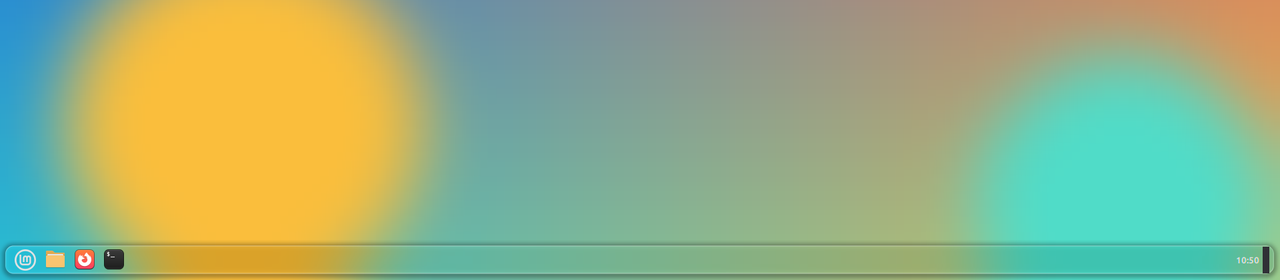
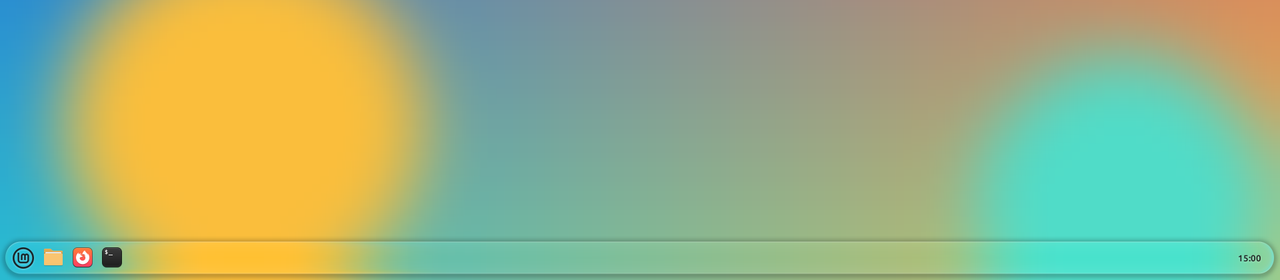
Fix colour lines on the glass rim, and refresh the Spices screenshot
The edge refraction samples the backdrop from further away than the bar
is tall once the lens width exceeds half its thickness (the new default
of 40 px does). Samples were clamped to the whole panel texture, so the
red, green and blue channels, which are offset differently, landed on
different clamped positions and drew bright red and green lines along
the rim over colourful content. Samples are now clamped to the bar.
A new integration check compares the rim pixels with the wallpaper.

Measuring the brightness behind an auto-hiding panel before it slides in
read the panel's own pixels when it was still sliding away, which pulled
the average under the threshold and delayed the colour switch until the
slide finished. Points the panel currently covers are now skipped.

vitrin/screenshot.png is regenerated from the current version, with the
same wallpaper and crop as before.

Changed region(s): [[0.0, 0.8286, 1.0, 1.0]]

diff --git a/vitrin/files/vitrin/extension.js b/vitrin/files/vitrin/extension.js
@@ -273,10 +273,12 @@ function measure(panel, s, [dx, dy] = [0, 0], fade = true) {
     const scale = global.ui_scale;
     const bands = Lib.sampleBands(panel.is_vertical, { x, y, width: panel.actor.width, height: panel.actor.height },
         config.gap, config.innerPadding, scale);
+    const here = { x: ax, y: ay, width: panel.actor.width, height: panel.actor.height };
     const jobs = regions(panel).filter(box => box.width > 0 && box.height > 0).map(box => {
         const [bx, by] = box.get_transformed_position();
         const region = { x: bx + dx, y: by + dy, width: box.width, height: box.height };
-        return { box, points: Lib.samplePoints(panel.is_vertical, region, bands, SAMPLES_PER_REGION), lum: [] };
+        const points = Lib.samplePoints(panel.is_vertical, region, bands, SAMPLES_PER_REGION);
+        return { box, points: dx || dy ? Lib.outside(points, here) : points, lum: [] };
     });
     let left = jobs.reduce((n, job) => n + job.points.length, 0);
     if (!left)

diff --git a/vitrin/files/vitrin/lib.js b/vitrin/files/vitrin/lib.js
@@ -62,6 +62,10 @@ function samplePoints(vertical, region, bands, count) {
     return points;
 }
 
+function outside(points, rect) {
+    return points.filter(([x, y]) => x < rect.x || x >= rect.x + rect.width || y < rect.y || y >= rect.y + rect.height);
+}
+
 function blurStep(sigma, scale) {
     return sigma * scale / 4;
 }
@@ -130,5 +134,5 @@ function glassUniforms(width, height, vertical, c, scale) {
 
 module.exports = {
     clamp, barPadding, paddingCss, extraThickness, barBox, clampToContent, dodge, blurStep, glassUniforms,
-    rgba, highlightCss, luminance, isLight, sampleBands, samplePoints, isGlyphIcon,
+    rgba, highlightCss, luminance, isLight, sampleBands, samplePoints, isGlyphIcon, outside,
 };

diff --git a/tests/unit/lib.test.js b/tests/unit/lib.test.js
@@ -138,6 +138,13 @@ test('isGlyphIcon takes symbolic icons and leaves colour icons alone', () => {
     assert.equal(Lib.isGlyphIcon(null, null), false);
 });
 
+test('outside drops the points a rectangle covers', () => {
+    const rect = { x: 0, y: 1057, width: 1920, height: 66 };
+    const points = [[100, 1025], [100, 1068], [2000, 1068], [100, 1056], [100, 1057]];
+    assert.deepEqual(Lib.outside(points, rect), [[100, 1025], [2000, 1068], [100, 1056]]);
+    assert.deepEqual(Lib.outside(points, { x: 0, y: 5000, width: 1, height: 1 }), points);
+});
+
 test('blurStep spreads 4 taps per sigma', () => {
     assert.equal(Lib.blurStep(3, 2), 1.5);
     assert.equal(Lib.blurStep(0, 2), 0);

diff --git a/tests/integration/run.py b/tests/integration/run.py
@@ -539,6 +539,13 @@ def run_scenario(name, tmp):
                 diffs = [dist(image.getpixel(s), wall.getpixel(s)) for s in samples]
                 if sc['wallpaper'] == 'colour':
                     checks.check(f'{tag}-glass-tints-backdrop', all(2 <= d <= 90 for d in diffs), f'diffs {diffs} at {samples}')
+                    cross = int(gap * scale)
+                    thickness = p['thickness']
+                    offsets = [cross + i for i in range(4)] + [thickness - 1 - cross - i for i in range(4)]
+                    rim = [(p['x'] + o, s[1]) if p['vertical'] else (s[0], p['y'] + o) for s in samples for o in offsets]
+                    rim_diffs = [dist(image.getpixel(pt), wall.getpixel(pt)) for pt in rim]
+                    checks.check(f'{tag}-no-colour-lines-on-rim', all(d <= 100 for d in rim_diffs),
+                                 f'worst {max(rim_diffs)} at {rim[rim_diffs.index(max(rim_diffs))]}')
                 else:
                     checks.check(f'{tag}-glass-follows-backdrop', all(d <= 60 for d in diffs), f'diffs {diffs} at {samples}')
                 if sc['wallpaper'] == 'dark':
